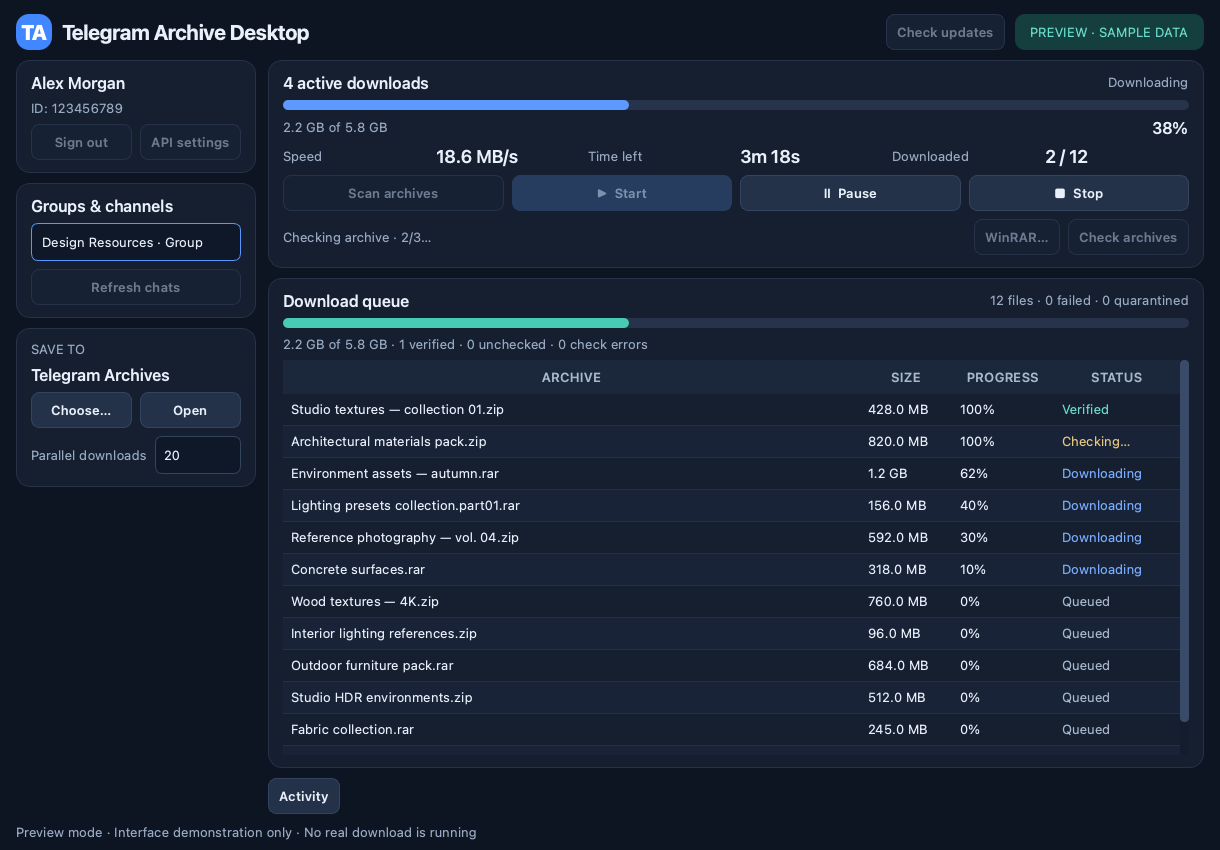
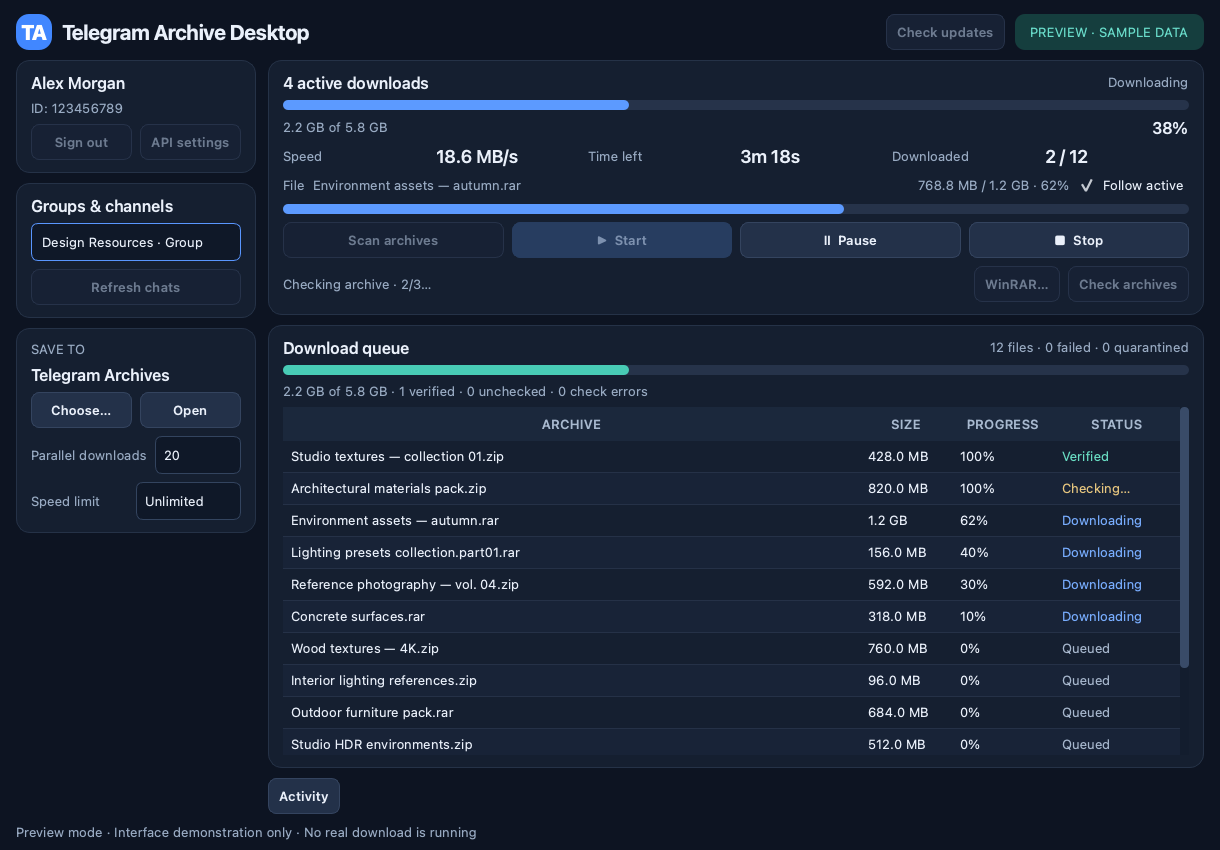
Show a separate per-file progress bar with queue selection and auto-follow

diff --git a/tgzip/ui.py b/tgzip/ui.py
@@ -4,7 +4,7 @@ from pathlib import Path
 import qrcode
 from PySide6.QtCore import Qt, QTimer, QUrl
 from PySide6.QtGui import QColor, QDesktopServices, QFont, QImage, QPainter, QPixmap
-from PySide6.QtWidgets import (QAbstractItemView, QComboBox, QDialog, QDialogButtonBox,
+from PySide6.QtWidgets import (QAbstractItemView, QCheckBox, QComboBox, QDialog, QDialogButtonBox,
     QFileDialog, QFormLayout, QFrame, QGridLayout, QHBoxLayout, QHeaderView, QInputDialog,
     QLabel, QLineEdit, QMainWindow, QMessageBox, QPlainTextEdit, QProgressBar, QPushButton,
     QSizePolicy, QTableWidget, QTableWidgetItem, QVBoxLayout, QWidget)
@@ -33,6 +33,7 @@ QLineEdit, QComboBox { background: #0f1828; border: 1px solid #33445f; border-ra
 QLineEdit:focus, QComboBox:focus { border-color: #5996ff; }
 QComboBox QAbstractItemView { background: #162236; color: #eaf0fa; selection-background-color: #305588; }
 QComboBox::drop-down { width: 24px; border: none; }
+QCheckBox { background: transparent; }
 QProgressBar { background: #26334a; border: none; border-radius: 5px; min-height: 10px; max-height: 10px; }
 QProgressBar::chunk { background: #5c9aff; border-radius: 5px; }
 QProgressBar#overall::chunk { background: #48cbb5; }
@@ -205,6 +206,9 @@ class Window(QMainWindow):
         self.current_job = None
         self.transfers_info = None
         self.queue_rows = {}
+        self.queue_jobs = {}
+        self.active_files = {}
+        self.watched_job = None
         self.qr_dialog = None
         self.password_dialog = None
         self.closing = False
@@ -357,6 +361,24 @@ class Window(QMainWindow):
             column.addWidget(value)
             metrics.addLayout(column)
         current.addLayout(metrics)
+        archive_heading = QHBoxLayout()
+        archive_heading.addWidget(label('File', 'muted'))
+        self.archive_name = label('No file selected', 'muted')
+        self.archive_name.setSizePolicy(QSizePolicy.Policy.Ignored, QSizePolicy.Policy.Preferred)
+        archive_heading.addWidget(self.archive_name, 1)
+        self.archive_detail = label('—', 'muted')
+        archive_heading.addWidget(self.archive_detail)
+        self.archive_follow = QCheckBox('Follow active')
+        self.archive_follow.setChecked(True)
+        self.archive_follow.setToolTip('Follow one active download automatically. Select a queue row to inspect a specific file.')
+        self.archive_follow.toggled.connect(lambda: self.render_archive())
+        archive_heading.addWidget(self.archive_follow)
+        current.addLayout(archive_heading)
+        self.archive_bar = QProgressBar()
+        self.archive_bar.setRange(0, 1000)
+        self.archive_bar.setValue(0)
+        self.archive_bar.setTextVisible(False)
+        current.addWidget(self.archive_bar)
         controls = QHBoxLayout()
         self.scan_btn = button('Scan archives', lambda: self.send('scan'))
         self.start_btn = button('▶  Start', lambda: self.send('start'), True)
@@ -398,11 +420,14 @@ class Window(QMainWindow):
         self.table.setShowGrid(False)
         self.table.setAlternatingRowColors(True)
         self.table.setSelectionBehavior(QAbstractItemView.SelectionBehavior.SelectRows)
+        self.table.setSelectionMode(QAbstractItemView.SelectionMode.SingleSelection)
+        self.table.currentCellChanged.connect(self.watch_queue_file)
+        self.table.cellClicked.connect(lambda row, col: self.watch_queue_file(row, col, -1, -1))
         self.table.setEditTriggers(QAbstractItemView.EditTrigger.NoEditTriggers)
         self.table.horizontalHeader().setSectionResizeMode(0, QHeaderView.ResizeMode.Stretch)
         for index, width in [(1, 92), (2, 102), (3, 126)]:
             self.table.setColumnWidth(index, width)
-        self.table.setMinimumHeight(240)
+        self.table.setMinimumHeight(200)
         queue.addWidget(self.table, 1)
         content.addWidget(queue_card, 1)
         activity_header = QHBoxLayout()
@@ -518,6 +543,46 @@ class Window(QMainWindow):
         self.eta_value.setText(eta_text((summary['bytes'] - summary['received']) / speed if speed else None))
         self.update_summary(summary)
 
+    def reset_archive(self):
+        self.queue_jobs = {}
+        self.active_files = {}
+        self.watched_job = None
+        self.table.blockSignals(True)
+        self.table.clearSelection()
+        self.table.setCurrentCell(-1, -1)
+        self.table.blockSignals(False)
+        self.archive_follow.setChecked(True)
+        self.render_archive()
+
+    def watch_queue_file(self, row, column, previous_row, previous_column):
+        item = self.table.item(row, 0) if row >= 0 else None
+        if item is None:
+            return
+        message = item.data(Qt.ItemDataRole.UserRole)
+        job = self.active_files.get(message) or self.queue_jobs.get(message)
+        if job is not None:
+            self.watched_job = dict(job)
+            self.archive_follow.setChecked(False)
+            self.render_archive()
+
+    def render_archive(self):
+        message = self.watched_job['message'] if self.watched_job else None
+        if self.archive_follow.isChecked() and self.active_files and message not in self.active_files:
+            message = next(iter(self.active_files))
+        job = self.active_files.get(message) or self.queue_jobs.get(message) or self.watched_job
+        if job is None:
+            self.archive_name.setText('No file selected')
+            self.archive_name.setToolTip('Select an archive in the queue to see its progress.')
+            self.archive_detail.setText('—')
+            self.archive_bar.setValue(0)
+            return
+        self.watched_job = dict(job)
+        percent = max(0, min(1, job['done'] / max(1, job['size'])))
+        self.archive_name.setText(job['name'])
+        self.archive_name.setToolTip(job['name'] + '\n' + (job.get('quarantine_path') or job['path']))
+        self.archive_detail.setText(f"{size_text(job['done'])} / {size_text(job['size'])} · {percent:.0%}")
+        self.archive_bar.setValue(round(percent * 1000))
+
     def update_verification_indicator(self):
         if self.verification_info:
             detail = self.verification_info['detail']
@@ -550,6 +615,8 @@ class Window(QMainWindow):
                 if row is not None:
                     self.file_status.setText(self.table.item(row, 3).text())
         elif name == 'transfers':
+            if 'files' in value:
+                self.active_files = {row['message']: dict(row) for row in value['files']}
             self.transfers_info = value
             self.current_job = None
             self.last_progress = time.monotonic()
@@ -599,6 +666,8 @@ class Window(QMainWindow):
             self.folder_label.setText(Path(self.folder).name if self.folder else 'Choose a download folder')
             self.folder_label.setToolTip(self.folder)
         elif name == 'account':
+            if (self.account or {}).get('id') != (value or {}).get('id'):
+                self.reset_archive()
             self.account = value
             self.account_name.setText(value['name'] if value else 'Connect Telegram')
             self.account_detail.setText(f'ID: {value["id"]}' if value else 'Sign in securely with a QR code.')
@@ -613,6 +682,8 @@ class Window(QMainWindow):
             self.chat_box.setCurrentIndex(-1)
             self.chat_box.blockSignals(False)
         elif name == 'selected':
+            if self.selected != value:
+                self.reset_archive()
             self.selected = value
             self.chat_box.blockSignals(True)
             self.chat_box.setCurrentIndex(self.chat_box.findData(value) if value is not None else -1)
@@ -633,6 +704,9 @@ class Window(QMainWindow):
                 self.byte_label.setText('Choose a chat → Scan archives → Start')
                 self.on_event('speed_reset', None)
         elif name == 'progress':
+            for job in (self.active_files.get(value['message']), self.queue_jobs.get(value['message']), self.watched_job):
+                if job is not None and job['message'] == value['message']:
+                    job.update(done=value['done'], size=value['size'])
             self.last_progress = time.monotonic()
             percent = value['done'] / max(1, value['size'])
             if self.transfers_info is None:
@@ -649,9 +723,13 @@ class Window(QMainWindow):
             if 'summary' in value:
                 self.update_summary(value['summary'])
         elif name == 'queue':
+            selected_item = self.table.item(self.table.currentRow(), 0) if self.table.currentRow() >= 0 else None
+            selected_message = selected_item.data(Qt.ItemDataRole.UserRole) if selected_item else None
+            self.table.blockSignals(True)
             scroll = self.table.verticalScrollBar().value()
             self.table.setRowCount(len(value['rows']))
             self.queue_rows = {}
+            self.queue_jobs = {row['message']: dict(row) for row in value['rows']}
             for index, row in enumerate(value['rows']):
                 self.queue_rows[row['message']] = index
                 status = {'queued': 'Queued', 'downloading': 'Downloading', 'done': 'Completed', 'error': 'Failed'}.get(row['state'], row['state'])
@@ -664,12 +742,19 @@ class Window(QMainWindow):
                 texts = [row['name'], size_text(row['size']), f'{row["done"] / max(row["size"], 1):.0%}', status]
                 for col, text in enumerate(texts):
                     item = QTableWidgetItem(text)
+                    if col == 0:
+                        item.setData(Qt.ItemDataRole.UserRole, row['message'])
                     item.setToolTip('\n'.join(filter(None, [row['error'], row.get('verification_error'), row.get('quarantine_path') or row['path']])))
                     self.table.setItem(index, col, item)
                 self.table.item(index, 3).setForeground(QColor({'done': '#69ddc3', 'error': '#ff9a9d', 'downloading': '#78adff'}.get(row['state'], '#a6b6cc')))
                 if row['state'] == 'done' and verification != 'ok':
                     self.table.item(index, 3).setForeground(QColor('#ff9a9d' if verification in {'error', 'quarantined'} else '#e8c77f'))
             self.table.verticalScrollBar().setValue(scroll)
+            if selected_message in self.queue_rows:
+                self.table.setCurrentCell(self.queue_rows[selected_message], 0)
+            else:
+                self.table.setCurrentCell(-1, -1)
+            self.table.blockSignals(False)
             self.update_summary(value['summary'])
             if self.current_job and self.state == 'idle':
                 index = self.queue_rows.get(self.current_job['message'])
@@ -713,6 +798,8 @@ class Window(QMainWindow):
         elif name == 'closed':
             self.can_close = True
             self.close()
+        if name in {'transfers', 'progress', 'queue', 'state', 'selected', 'account'}:
+            self.render_archive()
         self.update_controls()
 
     def tick(self):
@@ -760,7 +847,8 @@ class Window(QMainWindow):
         self.on_event('current', rows[2])
         self.on_event('state', 'downloading')
         self.on_event('progress', {'done': rows[2]['done'], 'size': rows[2]['size'], 'speed': 18.6 * 1024**2, 'message': 3, 'summary': summary})
-        self.on_event('transfers', {'active': 4, 'speed': 18.6 * 1024**2, 'summary': summary})
+        self.on_event('transfers', {'active': 4, 'speed': 18.6 * 1024**2, 'summary': summary,
+                                   'files': [row for row in rows if row['state'] == 'downloading']})
         self.on_event('verification', {'name': rows[1]['name'], 'detail': 'Checking archive without a password: attempt 2/3…'})
         self.log('Preview mode — sample data. No Telegram connection.')
         self.log('Last selected chat restored: Design Resources.')

diff --git a/tests/test_ui.py b/tests/test_ui.py
@@ -44,6 +44,9 @@ class UITests(unittest.TestCase):
         self.assertGreaterEqual(window.table.viewport().height() // 32, 9)
         self.assertEqual(window.file_bar.value(), window.overall_bar.value())
         self.assertEqual(window.file_name.text(), '4 active downloads')
+        self.assertEqual(window.archive_bar.value(), 620)
+        self.assertEqual(window.archive_name.text(), 'Environment assets — autumn.rar')
+        self.assertNotEqual(window.archive_bar.value(), window.overall_bar.value())
         self.assertIn('18.6', window.speed_value.text())
         self.assertTrue(window.chat_box.isEnabled())
         self.assertFalse(window.start_btn.isEnabled())
@@ -175,6 +178,77 @@ class UITests(unittest.TestCase):
         self.assertTrue(window.parallel_box.isEnabled())
         window.on_event('settings', {'parallel_downloads': 5})
         self.assertEqual(window.parallel_box.currentData(), 5)
+        window.close()
+
+    def test_individual_bar_stays_on_one_active_file_then_follows_next(self):
+        window = Window(demo=True)
+        window.on_event('progress', {'message': 4, 'done': 70, 'size': 100, 'speed': 10})
+        self.assertEqual(window.watched_job['message'], 3)
+        self.assertEqual(window.archive_bar.value(), 620)
+        window.on_event('progress', {'message': 3, 'done': 100, 'size': 100, 'speed': 10})
+        self.assertEqual(window.archive_bar.value(), 1000)
+        window.on_event('transfers', dict(window.transfers_info,
+                                         files=[row for mid, row in window.active_files.items() if mid != 3],
+                                         active=3))
+        self.assertEqual(window.watched_job['message'], 4)
+        self.assertEqual(window.archive_bar.value(), 700)
+        window.close()
+
+    def test_row_selection_pins_progress_without_changing_overall_bar(self):
+        window = Window(demo=True)
+        overall = window.file_bar.value()
+        window.table.setCurrentCell(3, 0)
+        self.assertFalse(window.archive_follow.isChecked())
+        self.assertEqual(window.watched_job['message'], 4)
+        self.assertEqual(window.archive_bar.value(), 400)
+        window.on_event('progress', {'message': 3, 'done': 95, 'size': 100, 'speed': 10})
+        self.assertEqual(window.archive_bar.value(), 400)
+        window.on_event('progress', {'message': 4, 'done': 75, 'size': 100, 'speed': 10})
+        self.assertEqual(window.archive_bar.value(), 750)
+        self.assertIn('75%', window.archive_detail.text())
+        self.assertEqual(window.file_bar.value(), overall)
+        # A queue refresh may insert/reorder rows but must retain file identity.
+        rows = list(window.queue_jobs.values())
+        window.on_event('queue', {'rows': rows[::-1], 'summary': window.transfers_info['summary']})
+        self.assertEqual(window.watched_job['message'], 4)
+        self.assertFalse(window.archive_follow.isChecked())
+        self.assertEqual(window.table.currentRow(), 8)
+        window.on_event('state', 'paused')
+        self.assertEqual(window.archive_bar.value(), 750)
+        window.close()
+
+    def test_completed_selection_stays_visible_until_auto_follow_is_enabled(self):
+        window = Window(demo=True)
+        window.table.setCurrentCell(0, 0)
+        self.assertEqual(window.archive_bar.value(), 1000)
+        self.assertEqual(window.watched_job['message'], 1)
+        window.on_event('verification', {'name': 'another.zip', 'detail': 'Checking attempt 2/3'})
+        self.assertEqual(window.watched_job['message'], 1)
+        window.archive_follow.setChecked(True)
+        self.assertEqual(window.watched_job['message'], 3)
+        self.assertEqual(window.archive_bar.value(), 620)
+        # Clicking the still-highlighted row must pin it again after Auto-follow.
+        window.table.cellClicked.emit(0, 0)
+        self.assertEqual(window.watched_job['message'], 1)
+        self.assertFalse(window.archive_follow.isChecked())
+        window.close()
+
+    def test_active_file_outside_visible_queue_and_chat_reset(self):
+        window = Window(demo=True)
+        job = {'message': 2001, 'name': 'Later archive.RAR', 'path': 'C:/Later archive.RAR',
+               'done': 25, 'size': 100}
+        window.on_event('transfers', dict(window.transfers_info, active=1, files=[job]))
+        self.assertNotIn(2001, window.queue_rows)
+        self.assertEqual(window.archive_name.text(), 'Later archive.RAR')
+        self.assertEqual(window.archive_bar.value(), 250)
+        window.on_event('progress', {'message': 2001, 'done': 100, 'size': 100, 'speed': 0})
+        window.on_event('transfers', dict(window.transfers_info, active=0, files=[]))
+        self.assertEqual(window.archive_bar.value(), 1000)
+        window.on_event('selected', -100456)
+        self.assertIsNone(window.watched_job)
+        self.assertEqual(window.archive_bar.value(), 0)
+        self.assertEqual(window.archive_name.text(), 'No file selected')
+        self.assertTrue(window.archive_follow.isChecked())
         window.close()
 
     def test_qr_image_is_rendered_and_can_be_cancelled(self):

diff --git a/tgzip/engine.py b/tgzip/engine.py
@@ -521,7 +521,8 @@ class Engine:
         speed = sum(row['speed'] for row in self.transfers.values()
                     if now - row['updated'] < 4) if self.gate.is_set() else 0
         self.emit('transfers', {'active': len(self.transfers), 'speed': speed,
-                               'summary': summary})
+                               'summary': summary,
+                               'files': [dict(row, message=message) for message, row in self.transfers.items()]})
 
     async def download_jobs(self, wake):
         account, chat = self.account, self.chat
@@ -596,7 +597,8 @@ class Engine:
 
     async def download_job(self, job, wake, account, chat, filenames):
         after = job['message']
-        self.transfers[after] = {'done': job['done'], 'size': job['size'], 'speed': 0, 'updated': time.monotonic()}
+        self.transfers[after] = {'name': job['name'], 'path': job['path'], 'done': job['done'],
+                                 'size': job['size'], 'speed': 0, 'updated': time.monotonic()}
         self.emit_transfers()
         self.emit('current', job)
         self.store.update(account, chat, after, state='downloading', error='')
@@ -622,6 +624,7 @@ class Engine:
                     if str(message.document.id) != job['document'] or message.document.size != job['size']:
                         raise TransferError('The attachment changed since scanning. The old partial file was preserved.')
                     self.prepare_filename(job, message, filenames)
+                    self.transfers[after].update(name=job['name'], path=job['path'])
                     await download(self.client, message, job, self.gate, progress, limiter=self.limiter)
                     break
                 except errors.FloodWaitError as exc:

diff --git a/tests/test_engine.py b/tests/test_engine.py
@@ -458,6 +458,18 @@ class EngineTests(unittest.IsolatedAsyncioTestCase):
         self.assertTrue(all(limiter is self.engine.limiter for limiter in seen))
         self.assertEqual(self.engine.limiter.rate, 2 * 1024 * 1024)
 
+    async def test_transfer_snapshot_includes_independent_file_details(self):
+        self.queue_files(1)
+        self.engine.transfers[1] = {'name': '1.zip', 'path': str(self.root / '1.zip'),
+                                   'done': 25, 'size': 100, 'speed': 0, 'updated': 0}
+        self.engine.emit_transfers()
+        snapshot = next(value for event, value in reversed(self.events) if event == 'transfers')
+        self.engine.transfers[1]['done'] = 99
+        self.assertEqual(snapshot['files'][0]['done'], 25)
+        self.assertEqual(snapshot['files'][0]['message'], 1)
+        self.assertEqual(snapshot['files'][0]['name'], '1.zip')
+        self.assertEqual(snapshot['files'][0]['size'], 100)
+
     async def test_qr_expiry_two_factor_retry_and_password_not_saved(self):
         engine = self.engine
         passwords = iter(['incorrect fixture', 'correct fixture'])

diff --git a/docs/DEVELOPMENT.md b/docs/DEVELOPMENT.md
@@ -25,6 +25,8 @@ Only one user operation runs at a time. A download operation owns two asyncio Ta
 
 Queue identity is `(account_id, chat_id, message_id)`. Document identity and expected size are checked before resuming; identifiers are metadata, not filename prefixes. SQLite transactions atomically add a discovered file and advance the scan cursor. WAL and FULL synchronous mode are used for committed metadata. The partial file is the authority for resume offsets; metadata progress is for display. Session and preferences use temporary-file replacement.
 
+Aggregate transfer events include independent copies of each active file's message ID, name, path, size, and current bytes. The separate File bar keeps one stable automatic target while it is active, or pins the queue row selected by the user. Queue snapshots preserve selection by message ID rather than row position and block selection signals while rebuilding the table. The UI retains only the visible queue, active pool, and last watched file, so it can show active files beyond the 1,000-row display limit without copying the entire database. Chat/account changes reset tracking; background verification never selects the watched download.
+
 Original names are sanitized only for Windows-invalid characters and reserved device names. Case and length are preserved. A shared FilenameAllocator reserves case-folded paths against the entire saved queue and directory entries, including `.part` files; only collisions add `__dup_<number>__`. Each scan/download operation has its own allocator, and workers reserve destinations without yielding. Paths are checked again before the first transfer, so a same-size unrelated file added after scanning is not mistaken for a completed download. Final bytes are checkpointed before finalization; new-style paths require this checkpoint to recover an existing final file.
 
 Additive `naming_version` and `partial_path` columns migrate existing queues without resetting scan cursors. Version 0 denotes legacy/imported paths, 1 denotes a new scanned reservation, and 2 denotes a prepared transfer or restored completed name. An unfinished legacy numbered path is reassigned using fresh Telegram metadata; the old `.part` location is stored atomically alongside the new target. Transfer resumes the old partial and finalizes directly to the new destination in the same directory. No intermediate filesystem rename is necessary during partial-file migration.

diff --git a/docs/VALIDATION.md b/docs/VALIDATION.md
@@ -1,5 +1,13 @@
 # Validation and release limits
 
+## Separate per-file progress bar — 20 October 2026
+
+The full suite ran **175 tests per runtime** on macOS. Python **3.12.3** and **3.14.8** passed 174 with Windows DPAPI skipped; Python **3.15.0** passed 173 with Windows DPAPI and unavailable cryptg skipped. Portable PowerShell tests were enabled.
+
+Qt tests distinguish the file's 62% progress from the queue's 38%, preserve a stable automatic target while other files report progress, follow the next active file after completion, and pin a selected row without affecting aggregate progress. They cover reordered queue snapshots, Pause, completed selections, returning to Follow active, clicking the same highlighted row again, active downloads outside the visible queue, completion after the active pool empties, and chat reset. A worker test verifies active-file events contain independent copies of file metadata and byte counts.
+
+The real Qt interface was rendered and visually inspected at 1220×850 and 1000×680. The file's name, byte counts, percentage, progress bar, and Follow active control fit alongside the existing aggregate display. The default-size queue still shows at least nine full rows. `interface-preview.png` was refreshed. No real Telegram account or Windows desktop was used; Windows acceptance should check row selection, automatic following, pause/resume, and switching chats during parallel downloads.
+
 ## Shared download speed limit — 20 October 2026
 
 The full suite ran **170 tests per runtime** on macOS. Python **3.12.3** and **3.14.8** passed 169 with Windows DPAPI skipped; Python **3.15.0** passed 168 with Windows DPAPI and unavailable cryptg skipped. Portable PowerShell tests were enabled. The real Qt interface was rendered at 1220×850 and 1000×680; the Speed limit dropdown fits beneath Parallel downloads without reducing the queue area.

diff --git a/docs/USER_GUIDE.md b/docs/USER_GUIDE.md
@@ -105,11 +105,16 @@ The limit uses the same binary units as the progress display: 1 MB/s means 1,048
 
 The compact interface gives most of the window to the queue. **Activity** expands or collapses the session log; it is collapsed by default. Extra explanations are available in tooltips.
 
+The separate **File** bar beneath the overall download metrics shows one archive's name, downloaded/total bytes, and percentage. **Follow active** is enabled by default: the display stays on one active file, then switches when that file finishes or stops. It also works for active files beyond the first 1,000 visible queue entries.
+
+Click an archive row (or select it with the keyboard) to pin that file's progress. This disables Follow active and does not change the overall progress or downloads. Completed files remain visible at 100%; queued files show their saved progress. Enable **Follow active** to return to automatic tracking. Pause/Stop retain the last progress, and changing chats clears the watched file. Hover over its name for the full name and saved path.
+
 The interface shows:
 
 | Display | Meaning |
 | --- | --- |
 | Main download bar | Received bytes across the full queue; the title shows the number of active downloads |
+| File bar | Progress of one automatically followed or explicitly selected archive, with its name and byte counts |
 | Row progress | Bytes saved for each individual archive |
 | Transfer speed | Combined recent speed of active downloads; resets when paused or stalled |
 | Time left | Estimated remaining queue download time, based on combined speed; archive check time is not included |

diff --git a/README.md b/README.md
@@ -27,6 +27,7 @@ Intermediate download progress is batched into one database transaction about on
 ## What is included
 
 - Compact dark interface with a larger queue, current-file and overall progress, speed, time remaining, and a collapsible Activity log.
+- A separate **File** progress bar shows one archive's name, downloaded bytes, and percentage. Select a queue row to inspect it, or keep **Follow active** enabled to follow downloads automatically.
 - **Speed limit** dropdown: Unlimited by default, or 10 / 5 / 2 / 1 / 0.5 / 0.25 MB/s shared across all downloads. Change it live; the choice is remembered.
 - **Check updates** downloads the latest public GitHub main version and restarts through the dependency launcher. Settings, sessions, downloads, and the queue are preserved.
 - Groups and channels, including archived dialogs; searchable chat selector and automatic restoration of the last selection.
